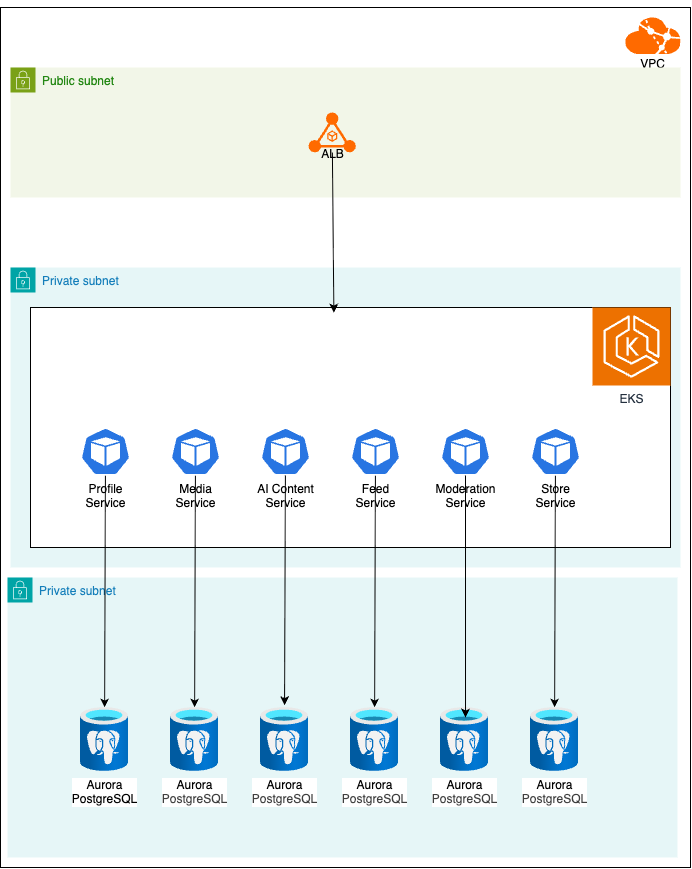
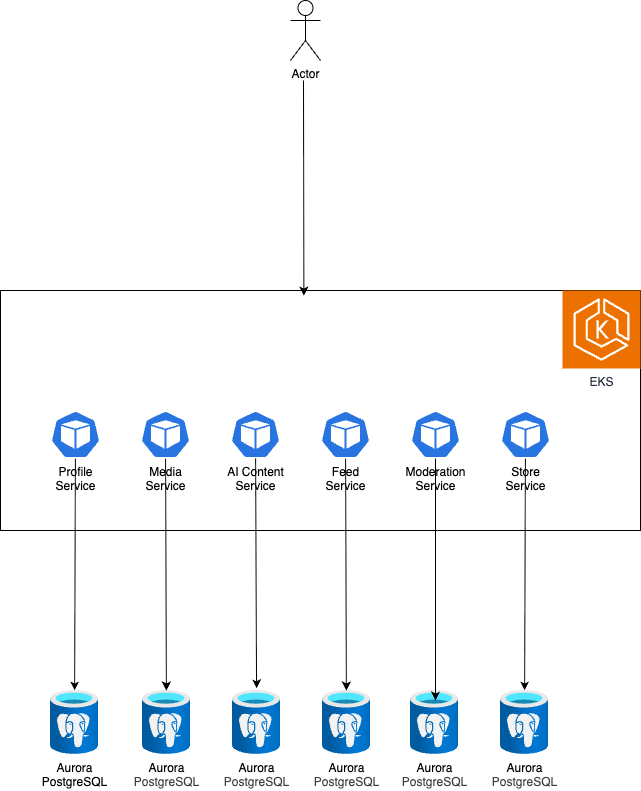
add multi-region strategies

diff --git a/jurassic-social/architecture.md b/jurassic-social/architecture.md
@@ -59,6 +59,50 @@ Recommended Reading: [UML hidden gems](http://diego-pacheco.blogspot.com/2020/10
 
 ### 🧭 5. Trade-offs
 
+#### Multi region patters
+
+1. Single region
+   PROS (+)
+
+- Simplicity - no replication, no conflicts, no routing
+- Cost - cheapest model
+- Single source of truth
+- Easier to debug
+  Cons (-)
+- Single point of failure
+- High latency for geographically distributed users
+- Limited scale
+
+2. Active-Passive
+   One active region, others are in standby receiving async data replication
+
+- Cold standby - Infr off. Turns on only on disaster
+- Warm standby - Infra running in reduced scale
+- Hot standby - Complete infra running, ready to assume
+  PROS (+)
+- Reliability in case an entire region gets down
+- No write conflicts (Only active writes)
+- Direct operation
+  CONS (-)
+- Idle paid capacity
+- No latency gains
+- Failover can take time until next region is set up
+
+3. Active-Active
+   All regions attend traffic and read/write simultaneously
+
+3.1 Geographical sharding
+
+PROS (+)
+
+- Low latency (each region owns its data)
+- No idle capacity
+- Almost Instant failover
+  CONS (-)
+- Complex cross-shard operations
+- Complex routing
+- Complex re-sharding and rebalancing
+
 List the tradeoffs analysis, comparing pros and cons for each major decision.
 Before you need list all your major decisions, them run tradeoffs on than.
 example: